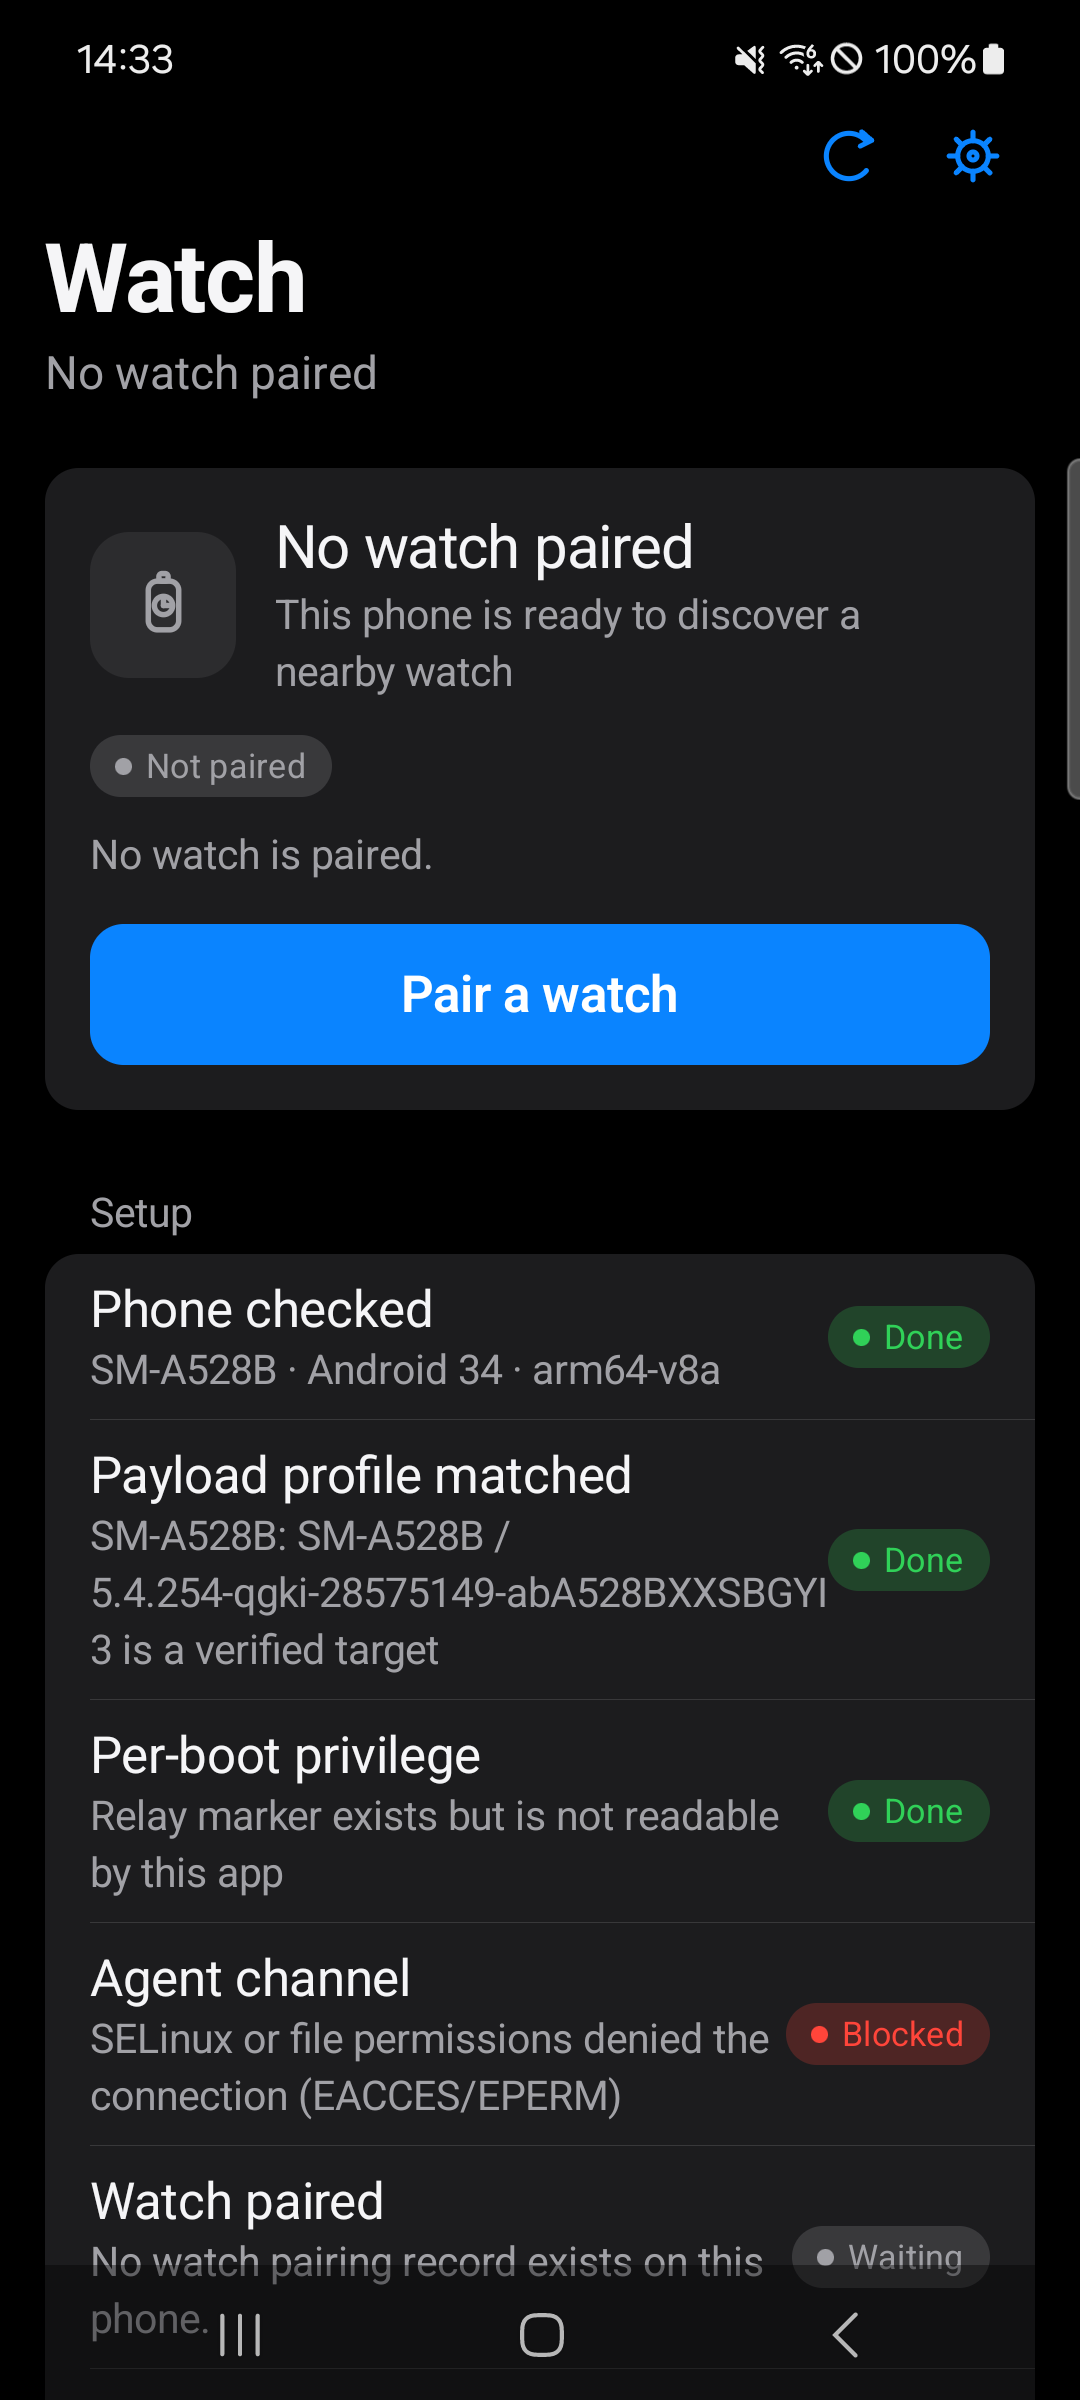
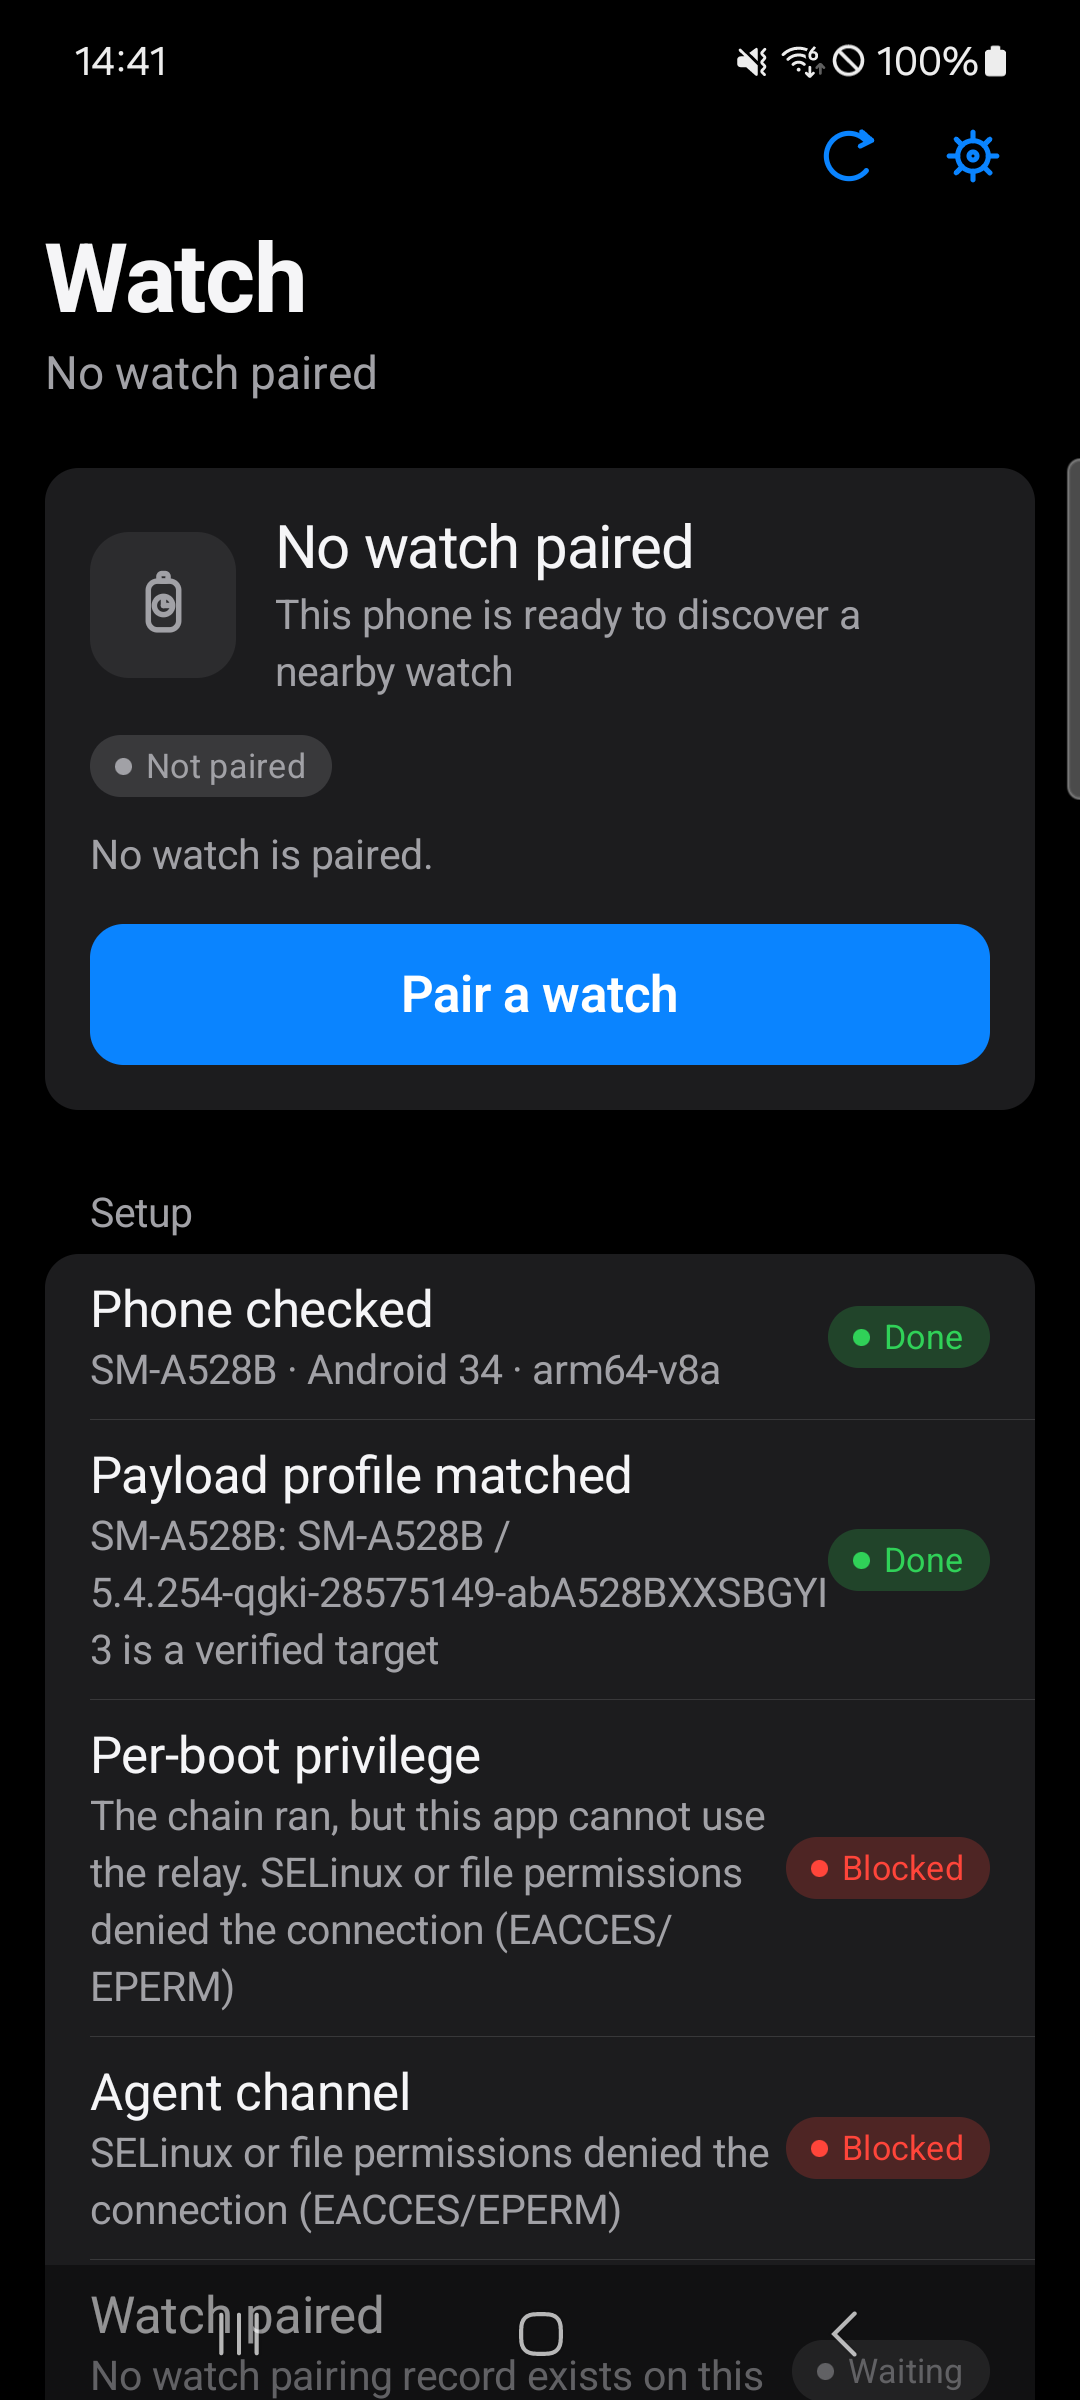
fix(app): harden registry parsing and privilege truth on device
Device testing caught JSON null blockers rendering as the string 'Blocker null'; the registry parser is now a pure function with JVM coverage. A live relay no longer shows a green Done for per-boot privilege: it is Blocked until the app can use the channel. Removes unused camera/notification permissions and captures the corrected A52 evidence (app-domain EACCES) plus the registry screen.

diff --git a/app/src/test/kotlin/org/opencrown/app/data/FeatureRegistryTest.kt b/app/src/test/kotlin/org/opencrown/app/data/FeatureRegistryTest.kt
@@ -1,0 +1,68 @@
+package org.opencrown.app.data
+
+import org.junit.Assert.assertEquals
+import org.junit.Assert.assertNull
+import org.junit.Assert.assertTrue
+import org.junit.Test
+
+class FeatureRegistryTest {
+    private val fixture = """
+        {
+          "schema": 1,
+          "updated": "2026-11-22",
+          "categories": ["Foundation"],
+          "blockers": {
+            "B-X": {"dependency": "A named dependency", "reason": "Because it is external."}
+          },
+          "features": [
+            {
+              "id": "built.row",
+              "category": "Foundation",
+              "title": "Built row",
+              "iphone_behavior": "Does the thing.",
+              "status": "implemented_unverified",
+              "blocker": null,
+              "phase": 1,
+              "notes": "",
+              "evidence": []
+            },
+            {
+              "id": "blocked.row",
+              "category": "Foundation",
+              "title": "Blocked row",
+              "iphone_behavior": "Cannot do the thing.",
+              "status": "blocked",
+              "blocker": "B-X",
+              "phase": 2,
+              "notes": "Needs the dependency.",
+              "evidence": ["docs/x.md"]
+            }
+          ]
+        }
+    """.trimIndent()
+
+    @Test
+    fun nullBlockerIsNotTheStringNull() {
+        val loaded = FeatureRegistry.parse(fixture) as FeatureRegistry.LoadResult.Loaded
+        val row = loaded.registry.rows.first { it.id == "built.row" }
+        assertNull(row.blocker)
+        assertEquals(FeatureStatus.IMPLEMENTED_UNVERIFIED, row.status)
+    }
+
+    @Test
+    fun blockedRowKeepsBlockerMetadata() {
+        val loaded = FeatureRegistry.parse(fixture) as FeatureRegistry.LoadResult.Loaded
+        val registry = loaded.registry
+        val row = registry.rows.first { it.id == "blocked.row" }
+        assertEquals("B-X", row.blocker)
+        assertEquals("A named dependency", registry.blockers["B-X"]?.dependency)
+        assertEquals(1, registry.counts[FeatureStatus.BLOCKED])
+        assertEquals(2, registry.counts.total)
+    }
+
+    @Test
+    fun malformedAssetIsUnavailableInsteadOfEmptySuccess() {
+        val result = FeatureRegistry.parse("{ not json")
+        assertTrue(result is FeatureRegistry.LoadResult.Unavailable)
+    }
+}

diff --git a/app/src/main/kotlin/org/opencrown/app/ui/screens/FeatureScreens.kt b/app/src/main/kotlin/org/opencrown/app/ui/screens/FeatureScreens.kt
@@ -281,7 +281,7 @@ fun SettingsScreen(
     CrownScaffold(title = "Settings", subtitle = "Open Crown", onBack = onBack) {
         item(key = "watch") {
             CrownInsetGroup(title = "Watch") {
-                CrownDisclosureRow("Status and connection", onClick = { onNavigate(Destination.Home) }, value = "Home")
+                CrownDisclosureRow("Status and connection", onClick = { onNavigate(Destination.Home) })
                 CrownDisclosureRow("Watch faces", onClick = { onNavigate(Destination.Faces) })
                 CrownDisclosureRow("Notifications", onClick = { onNavigate(Destination.Notifications) })
                 CrownDisclosureRow("Health and activity", onClick = { onNavigate(Destination.Health) })

diff --git a/app/src/main/kotlin/org/opencrown/app/data/FeatureRegistry.kt b/app/src/main/kotlin/org/opencrown/app/data/FeatureRegistry.kt
@@ -88,6 +88,13 @@ class FeatureRegistry private constructor(
 
         fun load(context: Context): LoadResult = try {
             val text = context.assets.open(ASSET_PATH).bufferedReader().use { it.readText() }
+            parse(text)
+        } catch (e: Exception) {
+            LoadResult.Unavailable("Registry asset could not be read: " + e.javaClass.simpleName)
+        }
+
+        /** Pure parser, used by the asset loader and by JVM tests. */
+        fun parse(text: String): LoadResult = try {
             val root = JSONObject(text)
             val features = root.getJSONArray("features")
             val rows = buildList {

diff --git a/app/src/main/kotlin/org/opencrown/app/MainActivity.kt b/app/src/main/kotlin/org/opencrown/app/MainActivity.kt
@@ -2,7 +2,6 @@ package org.opencrown.app
 
 import android.Manifest
 import android.graphics.Color as AndroidColor
-import android.os.Build
 import android.os.Bundle
 import androidx.activity.ComponentActivity
 import androidx.activity.SystemBarStyle

diff --git a/docs/evidence/a52-broker-untrusted-app.md b/docs/evidence/a52-broker-untrusted-app.md
@@ -2,8 +2,8 @@
 
 Date: 2026-11-22 14:33 Europe/Berlin
 Device: Samsung SM-A528B (a52sxq), Android 14 / SDK 34, SELinux enforcing.
-Build: Open Crown debug APK from this tree, versionName 0.1.0.
-Serial: withheld. Boot count at capture: 71.
+Build: final Open Crown debug APK from this tree, versionName 0.1.0.
+Serial: withheld. Boot count at capture: 72.
 
 ## What was done
 
@@ -38,9 +38,17 @@ The app's own probe result, rendered on Home and saved in
 [a52-broker-untrusted-app.png](a52-broker-untrusted-app.png):
 
 ```text
-Agent channel
+Per-boot privilege    Blocked
+The chain ran, but this app cannot use the relay. SELinux or file permissions
+denied the connection (EACCES/EPERM)
+
+Agent channel         Blocked
 SELinux or file permissions denied the connection (EACCES/EPERM)
 ```
+
+This capture is from the final debug build after the checkpoint fix: a present
+relay marker alone no longer renders as "Done"; it is blocked until the app can
+actually use the channel.
 
 The same probe is visible in
 [a52-broker-untrusted-app-ui.xml](a52-broker-untrusted-app-ui.xml), which
